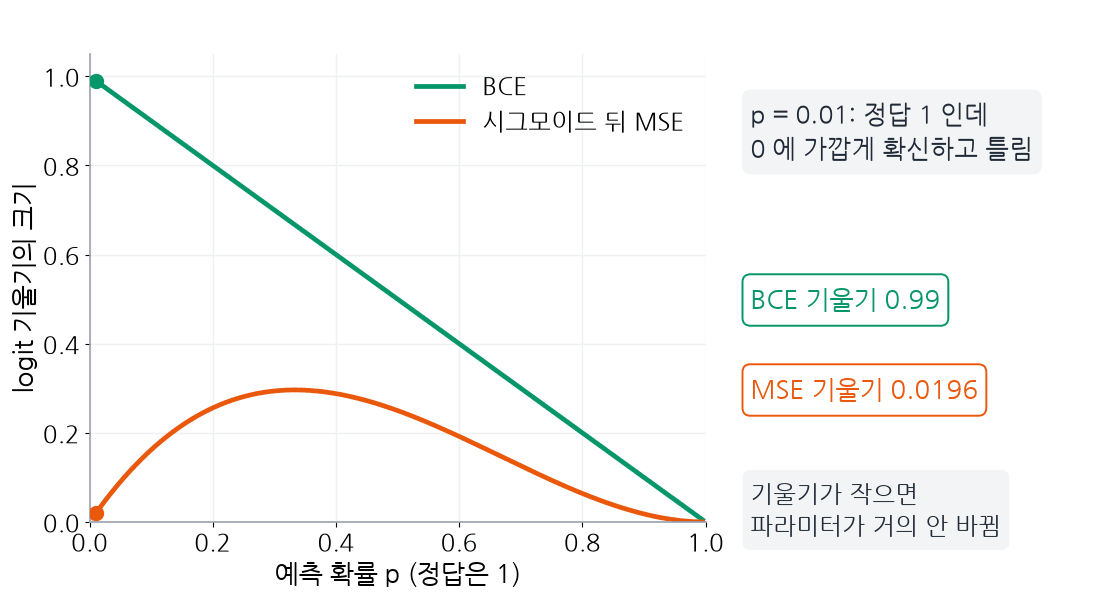
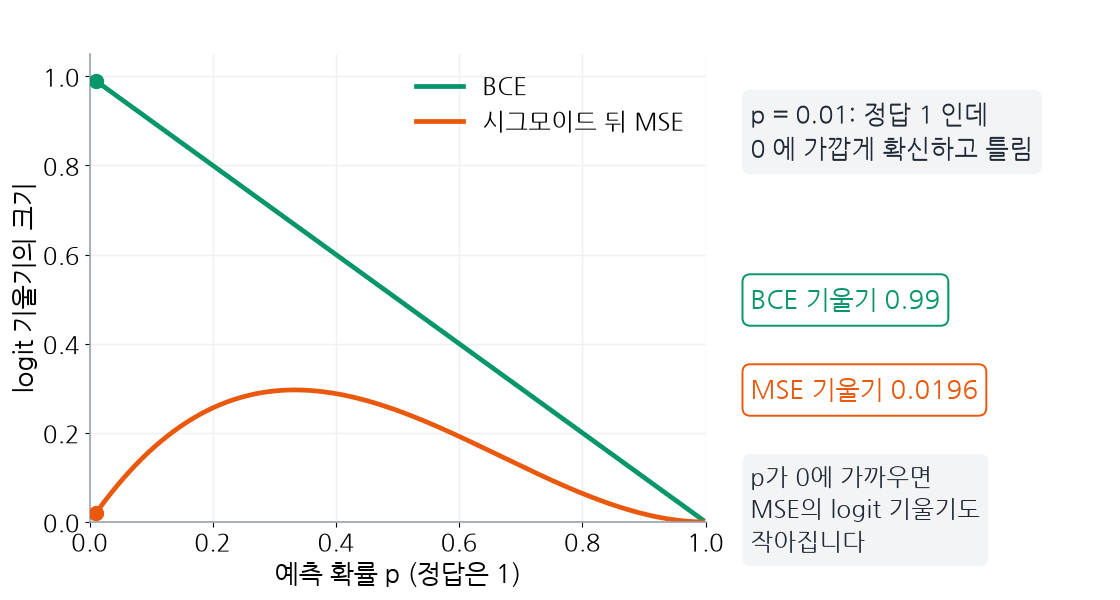
fix(learn): 설명 흐름과 넓은 화면 배치를 다듬음
5~9차시의 긴 설명을 개념·계산 예·이유로 나누고 기존 예제에서 확인 물음으로 이어지는 설명을 보완함. 손실·logit의 기울기와 실제 파라미터 갱신량을 구분하도록 본문·복습·그림을 함께 고침. 정답과 기존 첫 풀이 기록은 유지함.

첫 화면과 학습·노트·연습의 폭 제한을 넓히고 학습 본문은 큰 창에서 1600px까지 사용함. 좁은 표는 열 제목 아래에 행 이름과 값을 짝지어 표시하고 큰 창에서 원래 표로 복원함. 표 전환 뒤에도 초안·선택·초점과 입력 칸 전체 노출을 유지함. 수정 단계 확인 물음 7개와 관련 화면 검사 50개를 통과했으며 전체 검사는 PR CI로 확인함. 별도 Windows 실제 창에서 1600×900과 760×480·최대 글자·두 테마도 확인함. [Windows 실행 기록](https://github.com/WaterMinCho/programming-study/actions/runs/42169231471)

Changed region(s): [[0.6562, 0.78, 0.9062, 0.93]]

diff --git a/gui/docview.py b/gui/docview.py
@@ -125,6 +125,27 @@ def parts_of(text, base_dir, lang):
         yield run
 
 
+def stacked_tables(blocks):
+    """좁은 표를 열별 설명으로 바꿈. 첫 열의 항목 이름과 각 열의 값을 같은 문단에 둠."""
+    out = []
+    for block in blocks:
+        if block["t"] == "table" and len(block["head"]) > 2:
+            first, *heads = block["head"]
+            for column, title in enumerate(heads, 1):
+                out.append({"t": "heading", "level": 2, "text": "%s · %s" % (first, title) if first else title})
+                for row in block["rows"]:
+                    label = row[0] if row else ""
+                    value = row[column] if column < len(row) else ""
+                    out.append({"t": "para", "text": "%s: %s" % (label, value) if label else value})
+        elif "blocks" in block:
+            out.append(dict(block, blocks=stacked_tables(block["blocks"])))
+        elif "items" in block:
+            out.append(dict(block, items=[stacked_tables(item) for item in block["items"]]))
+        else:
+            out.append(block)
+    return out
+
+
 class Sheet(QWidget):
     """조각을 얹는 바탕. 칠할 때마다 지금 테마의 surface 색을 읽어서 테마를 바꿔도 따로 다시 칠할 일이 없음.
     flat 이면 칠하지 않음. 카드 안에 둔 칸은 카드가 면과 둥근 모서리를 그림."""
@@ -141,9 +162,13 @@ class Sheet(QWidget):
 class TextPiece(QTextBrowser):
     """글 조각. 폭이 바뀌면 높이를 내용에 맞춤. 휠은 바깥 스크롤로 넘겨서 Ctrl+휠로 이 조각만 글자가 커지는 일도 없음."""
 
-    def __init__(self, markup, css):
+    def __init__(self, markup, css, blocks=None):
         super().__init__()
         self.markup = markup
+        self.blocks = blocks
+        self.compact = False
+        self.table_width = 0
+        self.fitting = False
         self.spread_width = None  # 표의 열 폭을 나눈 조각 폭. 폭이 바뀌면 다시 나눔
         self.setOpenLinks(False)
         self.setFrameShape(QFrame.Shape.NoFrame)
@@ -157,7 +182,19 @@ class TextPiece(QTextBrowser):
     def restyle(self, css):
         """CSS 는 다음에 넣는 HTML 부터 적용되므로 HTML 을 다시 넣음."""
         self.document().setDefaultStyleSheet(css + NARROW_CSS)
-        self.setHtml(self.markup)
+        self.compact = False
+        self.table_width = 0
+        self.render_markup(self.markup)
+        self.table_width = max((sum(max(word_width(table.cellAt(row, col))
+            + table.cellAt(row, col).format().toTableCellFormat().leftPadding()
+            + table.cellAt(row, col).format().toTableCellFormat().rightPadding()
+            for row in range(table.rows())) + 4 for col in range(table.columns()))
+            for table in self.grid_tables() if table.columns() > 2), default=0) if self.blocks else 0
+        self.fit()
+
+    def render_markup(self, markup):
+        """문서를 다시 넣고 코드 상자의 여백을 적용함."""
+        self.setHtml(markup)
         self.document().setTextWidth(max(1, self.viewport().width()))  # 폭이 없으면 줄을 앉히지 않아 center_code 가 줄 자리를 못 읽음
         following = self.following_margins()
         for frame in self.code_frames():
@@ -167,7 +204,6 @@ class TextPiece(QTextBrowser):
             frame.setFormat(box)
         self.trim_ends()
         self.spread_width = None
-        self.fit()
 
     def following_margins(self):
         """문서 맨 바깥의 표마다 그 뒤 첫 글 블록의 위 여백 {표: 여백}. Qt 가 표 바로 뒤에 두는 빈 블록은 건너뜀."""
@@ -268,17 +304,27 @@ class TextPiece(QTextBrowser):
         키로 움직일 때 첫 줄이 위로 밀림. 보이기 전에는 QTextBrowser 가 문서 폭을 정하지 않아 줄이 앉지 않으므로 폭을 먼저 줌.
         이미 자리 잡은 칸에 새로 들어온 조각은 보일 때의 resizeEvent 안에서 높이를 바꾸는데, 이 높이 변경은 resizeEvent 로 다시
         오지 않아 스크롤 범위가 만들 때의 낮은 높이 기준으로 남음. 조각은 안에서 스크롤하지 않으므로 범위를 0 으로 둠."""
-        width = self.viewport().width()
-        self.document().setTextWidth(width)
-        if width != self.spread_width:
-            self.spread_width = width
-            for table in self.grid_tables():
-                spread(table, width)
-            for frame in self.code_frames():
-                self.center_code(frame)
-            self.balance_code_gaps()
-        self.setFixedHeight(math.ceil(self.document().size().height()))
-        self.verticalScrollBar().setRange(0, 0)
+        if self.fitting:
+            return
+        self.fitting = True
+        try:
+            width = self.viewport().width()
+            compact = bool(self.blocks and width + 1 < self.table_width)
+            if compact != self.compact:
+                self.compact = compact
+                self.render_markup(mdlite.blocks_html(stacked_tables(self.blocks)) if compact else self.markup)
+            self.document().setTextWidth(width)
+            if width != self.spread_width:
+                self.spread_width = width
+                for table in self.grid_tables():
+                    spread(table, width)
+                for frame in self.code_frames():
+                    self.center_code(frame)
+                self.balance_code_gaps()
+            self.setFixedHeight(math.ceil(self.document().size().height()))
+            self.verticalScrollBar().setRange(0, 0)
+        finally:
+            self.fitting = False
 
     def resizeEvent(self, event):
         super().resizeEvent(event)
@@ -488,7 +534,8 @@ class DocView(QScrollArea):
 
     def _add_blocks(self, blocks):
         if blocks:
-            self._add_piece(mdlite.blocks_html(self._ruled(blocks)))
+            blocks = self._ruled(blocks)
+            self._add_piece(mdlite.blocks_html(blocks), blocks)
 
     def _ruled(self, blocks):
         """맨 바깥의 구역 제목 앞에 가로줄 블록을 넣은 목록. 칸 맨 위에 오는 제목에는 넣지 않음."""
@@ -499,8 +546,8 @@ class DocView(QScrollArea):
             out.append(block)
         return out
 
-    def _add_piece(self, markup):
-        piece = TextPiece(markup, self.sheet_css())
+    def _add_piece(self, markup, blocks=None):
+        piece = TextPiece(markup, self.sheet_css(), blocks)
         piece.anchorClicked.connect(lambda url: self.linked.emit(url.toString()))
         self._add(piece)
 
@@ -539,7 +586,7 @@ class Doc(QWidget):
 
     def _add_blocks(self, blocks):
         if blocks:
-            piece = TextPiece(mdlite.blocks_html(blocks), self.css)
+            piece = TextPiece(mdlite.blocks_html(blocks), self.css, blocks)
             self._add(piece)
 
     def _add(self, widget):

diff --git a/tests/test_gui_learning_readability.py b/tests/test_gui_learning_readability.py
@@ -5,9 +5,11 @@ import unittest
 from tests import guikit
 from tests.test_gui_learning_state import LearningWindow
 
+from PyQt6.QtCore import QPoint, QRect
 from PyQt6.QtGui import QFontInfo
 from gui import ai_learn, kit, theme
 from gui.docview import TextPiece
+import mdlite
 
 
 class LearningReadabilityTest(unittest.TestCase):
@@ -20,6 +22,35 @@ class LearningReadabilityTest(unittest.TestCase):
         widget.close()
         widget.deleteLater()
         guikit.pump()
+
+    def test_narrow_comparison_keeps_each_value_with_its_column_and_row(self):
+        theme.set_text("larger")
+        blocks = mdlite.parse("| | 지도학습 | 비지도학습 | 자기지도학습 | 강화학습 |\n"
+            "|---|---|---|---|---|\n| 주는 것 | 입력과 정답 | 정답 없는 데이터 | 데이터에서 만든 정답 | 행동 뒤 점수 |\n"
+            "| 예 | 체중 예측 | 군집 나누기 | 가린 부분 맞히기 | 게임 |")
+        piece = TextPiece(mdlite.blocks_html(blocks), theme.learning_css(), blocks)
+        self.addCleanup(self.close, piece)
+        piece.resize(600, 600)
+        piece.show()
+        guikit.pump(60)
+        self.assertTrue(piece.compact)
+        plain = piece.toPlainText()
+        for title, value in (("지도학습", "입력과 정답"), ("비지도학습", "정답 없는 데이터"),
+                             ("자기지도학습", "데이터에서 만든 정답"), ("강화학습", "행동 뒤 점수")):
+            section = plain.split(title + "\n", 1)[1]
+            self.assertTrue(section.startswith("주는 것: " + value))
+        self.assertIn("예: 게임", plain)
+        self.assertLessEqual(piece.document().size().width(), piece.viewport().width()+1)
+        piece.resize(1500, piece.height())
+        guikit.pump(60)
+        self.assertFalse(piece.compact)
+        self.assertEqual([(t.rows(), t.columns()) for t in piece.grid_tables()], [(3, 5)])
+        theme.set_text("normal")
+        piece.restyle(theme.learning_css())
+        piece.resize(500, piece.height())
+        guikit.pump(60)
+        self.assertTrue(piece.compact)
+        self.assertIn("주는 것: 행동 뒤 점수", piece.toPlainText())
 
     def test_markdown_questions_and_input_use_the_same_larger_reading_size(self):
         theme.set_text("large")
@@ -38,7 +69,7 @@ class LearningReadabilityTest(unittest.TestCase):
         reading = recall.field.font().pixelSize()
         self.assertEqual(QFontInfo(font).pixelSize(), reading)
         self.assertGreater(reading, win.page.next_btn.font().pixelSize())
-        self.assertGreater(win.page.view.width(), kit.READ_MIN)
+        self.assertGreater(win.page.view.width(), 1000)
         theme.set_text("larger")
         kit.refont(win)
         win.page.restyle()
@@ -49,6 +80,36 @@ class LearningReadabilityTest(unittest.TestCase):
         recall.field.setText("정답")
         recall.check()
         self.assertEqual(recall.field.font().pixelSize(), theme.TYPE["learn_body"][0])
+
+    def test_comparison_reflow_keeps_the_active_answer_on_return(self):
+        theme.set_text("larger")
+        win = LearningWindow()
+        self.addCleanup(self.close, win)
+        table = "| | 지도학습 | 비지도학습 | 자기지도학습 | 강화학습 |\n|---|---|---|---|---|\n| 자료 | 입력과 정답 | 정답 없는 데이터 | 만든 정답 | 점수 |"
+        win.ai.units["one"][1]["blocks"].insert(0, {"kind": "text", "markdown": table})
+        win.resize(2000, 900)
+        win.show()
+        win.activateWindow()
+        win.page.load("test", "one", 2)
+        guikit.wait_until(lambda: win.page.pending_position is None)
+        field = win.page.view.findChildren(ai_learn.RecallBlock)[0].field
+        field.setText("입력 중인 답안")
+        field.setFocus()
+        field.setSelection(3, 2)
+        win.page.scroll.ensureWidgetVisible(field)
+        win.resize(760, 480)
+        guikit.pump(150)
+        win.page.show_step(0)
+        win.page.show_step(1)
+        guikit.wait_until(lambda: win.page.pending_position is None)
+        guikit.pump(80)
+        field = win.page.view.findChildren(ai_learn.RecallBlock)[0].field
+        self.assertEqual((field.text(), field.selectedText()), ("입력 중인 답안", "중인"))
+        self.assertTrue(field.hasFocus())
+        self.assertTrue(any(piece.compact for piece in win.page.view.findChildren(TextPiece)))
+        viewport = win.page.scroll.viewport()
+        rect = QRect(field.mapTo(viewport, QPoint()), field.size())
+        self.assertTrue(viewport.rect().contains(rect), (rect, viewport.rect(), win.page.scroll.verticalScrollBar().value()))
 
     def test_learning_picture_grows_with_text_and_zoom_preserves_the_larger_size(self):
         theme.set_text("normal")

diff --git a/tests/test_gui_design.py b/tests/test_gui_design.py
@@ -1,7 +1,7 @@
 # -*- coding: utf-8 -*-
 """첫 화면, 웹 면접 준비 화면, 알고리즘 여행 화면이 디자인 시스템의 규칙을 지키는지(설계 검사 C5~C8). 화면 상태마다 보이는 주 단추는
 하나 이하이고, 단추는 32 이상(주 단추 48), 목록 줄은 56 이상이며, 작업 화면의 주 단추는 아래 막대 오른쪽 끝(창 폭 − 32)에 있고,
-홈 화면의 주 단추는 1024×700 에서 스크롤 없이 보임. 읽는 글의 폭은 1280 창에서 640 이하이고 넓은 창에서는 창을 따라 넓어지되
+홈 화면의 주 단추는 1024×700 에서 스크롤 없이 보임. 읽는 글의 폭은 창을 따라 넓어지되
 kit.doc_max 를 넘지 않음. 첫 화면과 웹 화면을 띄우는 순서는 tests/test_gui_web.py 의 LookTest.screens 를 그대로 쓰고,
 여행 화면은 tests/test_gui_journey.py 의 가짜 창과 고정 은행으로 띄움.
 PyQt6 가 없으면 전부 건너뜀."""
@@ -102,17 +102,16 @@ class DesignTest(WebTest):
                 self.assertTrue(inside(win, primaries[0]), "%s: 주 단추가 스크롤 없이 보여야 함" % name)
 
     def test_reading_measure_follows_the_window(self):
-        """편집기와 나란히 놓인 글(미션 안내)의 단은 1280 창에서 640(설계값)이고 2000 창에서는 본문 64자 폭(크게 848)까지 넓어짐. 카드 하나만
-        있는 학습 노트와 꼬리 질문 카드는 1280 창에서 760 에서 시작해 같이 넓어짐. 미션의 오른쪽 카드는 480(글자 크기에 비례)까지만 넓어지고
-        그 안에서 같이 읽을 노트 줄의 제목이 잘리지 않음."""
-        self.assertEqual((kit.doc_width(1024), kit.doc_width(1280), kit.doc_width(2000)), (640, 640, min(1000, kit.doc_max())))
+        """창의 남는 폭을 학습 카드와 미션 안내에 쓰고 글자가 커지면 상한도 넓힘."""
         self.addCleanup(theme.set_text, theme.state["text"])
-        self.assertEqual((kit.read_width(1024), kit.read_width(1280), kit.read_width(2000)), (760, 760, min(1120, kit.read_max())))
-        for step, widest, read in (("normal", 759, 901), ("large", 848, 1007), ("larger", 937, 1113)):
+        theme.set_text("normal")
+        self.assertEqual((kit.doc_width(1024), kit.doc_width(1280), kit.doc_width(2000)), (912, 1168, 1200))
+        self.assertEqual((kit.read_width(1024), kit.read_width(1280), kit.read_width(2000)), (1120, 1168, 1600))
+        for step, widest, read in (("normal", 1200, 1600), ("large", 1341, 1788), ("larger", 1482, 1976)):
             theme.set_text(step)
             self.assertEqual((kit.doc_max(), kit.read_max()), (widest, read), step)
         theme.set_text(theme.TEXT_DEFAULT)
-        for size, low, high, read_low, read_high in (((1280, 800), 600, 640, 720, 760), ((2000, 1070), 800, kit.doc_max(), 880, kit.read_max())):
+        for size, low, high, read_low, read_high in (((1280, 800), 600, kit.doc_width(1280), 1080, kit.read_width(1280)), ((2000, 1070), 880, kit.doc_max(), 1120, kit.read_max())):
             win = self.boot(size)
             win.open_learn("l90")
             self.idle()
@@ -128,14 +127,15 @@ class DesignTest(WebTest):
             row = page.note_rows.rows[0]
             drill = self.open_drill("90-A")
             if size[0] == 2000:
-                self.assertEqual(page.brief_view.sheet.width(), kit.doc_width(2000) + 48)
+                self.assertLessEqual(page.brief_view.sheet.width(), kit.doc_width(2000) + 48)
                 self.assertEqual(page.right_card.width(), round(480 * theme.TYPE["body"][0] / 17))
                 self.assertEqual(QLabel.text(row.title), row.title.full)  # 제목이 줄임표 없이 다 보임
                 self.assertEqual(learn.card.width(), kit.read_width(2000) + 48)
                 self.assertGreater(drill.ask_card.width(), 840)
             else:
-                self.assertLessEqual(page.brief_view.sheet.width(), 640 + 48)
-                self.assertEqual((learn.card.width(), drill.ask_card.width()), (808, 840))
+                self.assertLessEqual(page.brief_view.sheet.width(), kit.doc_width(1280) + 48)
+                self.assertGreater(learn.card.width(), 1100)
+                self.assertGreater(drill.ask_card.width(), 1100)
             guikit.wait_until(lambda: win.pending_job is None)
             win.close()
             win.deleteLater()

diff --git a/gui/ai_learn.py b/gui/ai_learn.py
@@ -31,14 +31,14 @@ BOX_LINE = re.compile(r"^\s*>\s?\*\*\[(정정|보충 설명)\]\*\*\s*")
 WIDE = 16777215  # Qt 위젯 크기의 상한. Doc 의 최대 폭(640)을 풀어 카드 폭을 따르게 함
 STEP_KEYS = (("Left", -1), ("Right", 1), ("Alt+Left", -1), ("Alt+Right", 1))
 SLOT_CHARS = 8  # 코드 칸의 처음 폭(코드 글자 수). 적는 만큼 넓어짐
-READ_WIDTH = 880  # 기본 학습 본문의 폭. 작은 창에서는 바깥 스크롤 칸의 가용 폭을 따름
+READ_WIDTH = 1200  # 기본 학습 본문의 폭. 작은 창에서는 바깥 스크롤 칸의 가용 폭을 따름
 CARD_PAD = 32
 READ_ROLES = {"body": "learn_body", "label": "learn_body", "caption": "learn_caption", "headline": "learn_heading"}
 
 
 def reading_width(window_width):
-    """넓은 창의 학습 본문을 880~1040px로 두고 긴 문장을 화면 끝까지 늘이지 않음."""
-    return max(READ_WIDTH, min(1040, READ_WIDTH + (window_width - kit.GROW_FROM) // 2))
+    """학습 본문을 1200~1600px까지 넓히고 창의 바깥 여백을 남김."""
+    return max(READ_WIDTH, min(1600, window_width - 2 * kit.MARGIN - 2 * CARD_PAD))
 
 
 def learning_texts(root):
@@ -1605,16 +1605,21 @@ class AiLearnPage(QWidget):
             return
         _, anchor, focus = pending
         inner = self.scroll.widget()
+        for widget in reversed([self.view] + self.view.findChildren(QWidget)):
+            if widget.layout() is not None:
+                widget.layout().activate()
         inner.layout().activate()
         self.card_box.activate()
         if anchor is not None and inner.height() < inner.minimumSizeHint().height():
             return  # 글 조각의 높이가 전해진 뒤 Resize·rangeChanged에서 다시 부름
         target = _view_widget(self.view, focus)
+        field = _view_widget(self.view, anchor[2]) if anchor is not None else None
         piece = _view_widget(self.view, anchor[0]) if anchor is not None else None
         geometry = (inner.size(), inner.minimumSizeHint(), self.view.size(), self.scroll.viewport().size(),
                     piece.mapTo(inner, QPoint()).y() if piece is not None else None,
                     piece.height() if piece is not None else None,
                     target.mapTo(inner, QPoint()).y() if target is not None else None,
+                    field.mapTo(inner, QPoint()).y() if field is not None else None,
                     self.scroll.verticalScrollBar().maximum())
         if geometry != self.position_geometry:
             self.position_geometry = geometry
@@ -1626,7 +1631,6 @@ class AiLearnPage(QWidget):
             target.setFocus(Qt.FocusReason.OtherFocusReason)
         value = piece.mapTo(inner, QPoint()).y() + round(anchor[1] * piece.height()) if piece is not None else 0
         self.scroll.verticalScrollBar().setValue(value)
-        field = _view_widget(self.view, anchor[2]) if anchor is not None else None
         if isinstance(field, QLineEdit) and field.hasFocus():
             viewport = self.scroll.viewport()
             top = field.mapTo(viewport, QPoint()).y()

diff --git a/tests/test_gui_journey.py b/tests/test_gui_journey.py
@@ -1084,11 +1084,11 @@ class WorkFrameTest(Base):
         win.resize(2000, 1070)
         guikit.pump()
         doc = kit.doc_width(page.width())
-        self.assertEqual(848, doc)
+        self.assertEqual(1341, doc)
         self.assertLessEqual(piece.width(), doc)
         self.assertGreaterEqual(piece.width(), 800)
         self.assertLessEqual(page.problem_card.width(), doc + 62)
-        self.assertGreater(page.code_panel.width(), page.problem_card.width(), "남는 폭은 편집기 칸이 받음")
+        self.assertGreaterEqual(page.code_panel.width(), page.problem_card.width(), "편집기 칸도 설명 칸만큼의 폭을 확보함")
 
     def test_the_page_never_widens_a_small_window(self):
         """더 크게, 보스, Node 없음, 긴 상태 글에서도 문제 화면의 최소 폭이 1024 이하라 1024 창이 넓어지지 않음."""

diff --git a/tests/test_gui_web.py b/tests/test_gui_web.py
@@ -1282,7 +1282,7 @@ class LearnTest(WebTest):
         self.assertIn("그림 준비 중. 그림 1. 두 호출이 같은 값을 넣어", text)  # 고정 은행에는 그림 파일이 없음
         self.assertNotIn("내용:", text)
         self.assertEqual([p for p in learn.view.pieces if isinstance(p, FigureView)], [])
-        self.assertLessEqual(learn.view.width(), kit.READ_MIN + 2)  # 읽는 글 폭
+        self.assertLessEqual(learn.view.width(), kit.read_width(win.width()) + 2)  # 창에 맞춘 읽는 글 폭
         self.assertEqual(len(kit.visible_primary_buttons(learn)), 0)  # 읽기 화면에는 주 단추가 없음
         self.assertEqual((learn.next_row.isVisible(), learn.next_title.text()), (True, "일반 변수는 화면을 바꾸지 못합니다"))
         guikit.click(learn.next_btn)

diff --git a/tests/test_gui_hub.py b/tests/test_gui_hub.py
@@ -363,7 +363,7 @@ class HubScreenTest(HubTest):
         self.assertEqual(total, hub.chart.mapTo(week, QPoint(hub.chart.width(), 0)).x())
         self.assertLess(total, recent.left())
         self.assertGreaterEqual(recent.width(), hub.recent.natural_width())  # 최근 채점 줄이 다 보임
-        week.resize(kit.HOME_WIDTH // 2, week.height())  # 좁으면 막대 아래로 내려가고 폭을 다 씀
+        week.resize(560, week.height())  # 좁으면 막대 아래로 내려가고 폭을 다 씀
         self.assertFalse(week.side)
         self.assertEqual(week.row.direction(), week.row.Direction.TopToBottom)
         self.assertEqual(week.recent_box.maximumWidth(), hub_page.QWIDGETSIZE_MAX)

diff --git a/tools/ai_art/l06.py b/tools/ai_art/l06.py
@@ -667,7 +667,7 @@ def mse_vs_bce_grad():
     note(fig, 0.67, 0.78, "p = 0.01: 정답 1 인데\n0 에 가깝게 확신하고 틀림", size=18, transform=fig.transFigure)
     note(fig, 0.67, 0.50, "BCE 기울기 0.99", color=GREEN, size=19, bg="white", ec=GREEN, transform=fig.transFigure)
     note(fig, 0.67, 0.35, "MSE 기울기 0.0196", color=ORANGE, size=19, bg="white", ec=ORANGE, transform=fig.transFigure)
-    note(fig, 0.67, 0.15, "기울기가 작으면\n파라미터가 거의 안 바뀜", size=17, transform=fig.transFigure)
+    note(fig, 0.67, 0.15, "p가 0에 가까우면\nMSE의 logit 기울기도\n작아집니다", size=17, transform=fig.transFigure)
     return image(fig)
 
 

diff --git a/gui/web_drill.py b/gui/web_drill.py
@@ -27,7 +27,7 @@ STUCK_DEFAULT = "막힌 곳에서 아는 데까지 말했는지 표시하세요.
 NOTE_HELP = "다음 복습 때 지난 답으로 보입니다. 풀이를 제출하면 저장소에도 올라갑니다."
 WARN_SHARE = 0.2  # 남은 시간이 이 비율 이하면 주황
 SHORTCUT_TIP = "Ctrl+Enter (맥은 Cmd+Enter)"
-CARD_WIDTH = 840  # 1280 창까지의 카드 폭
+CARD_WIDTH = 1200  # 읽기 카드의 시작 폭. 작은 창에서는 가용 폭을 따름
 
 
 def plain(text):
